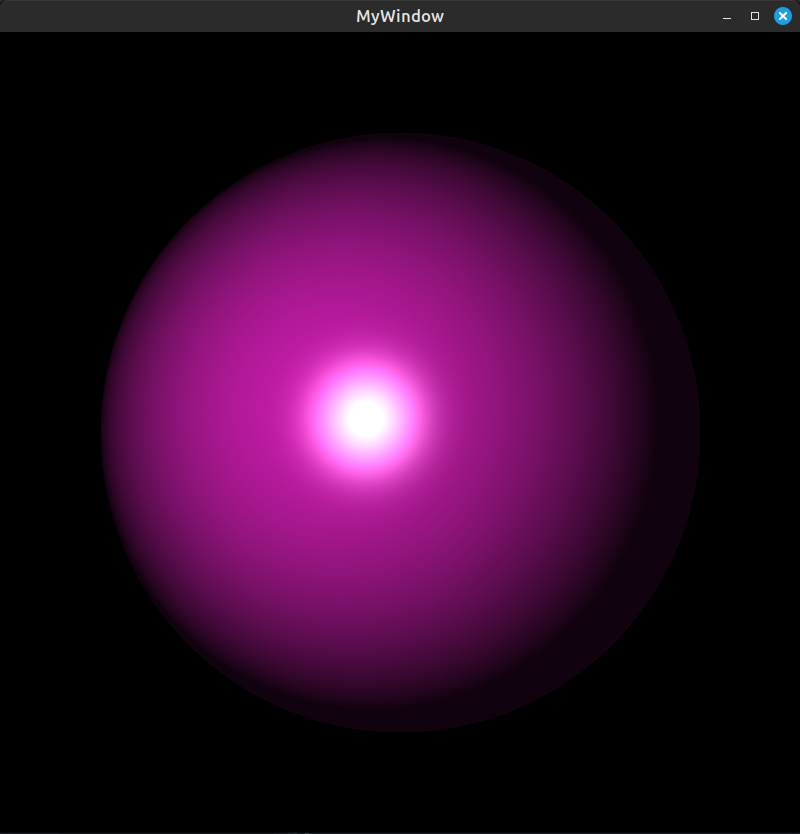
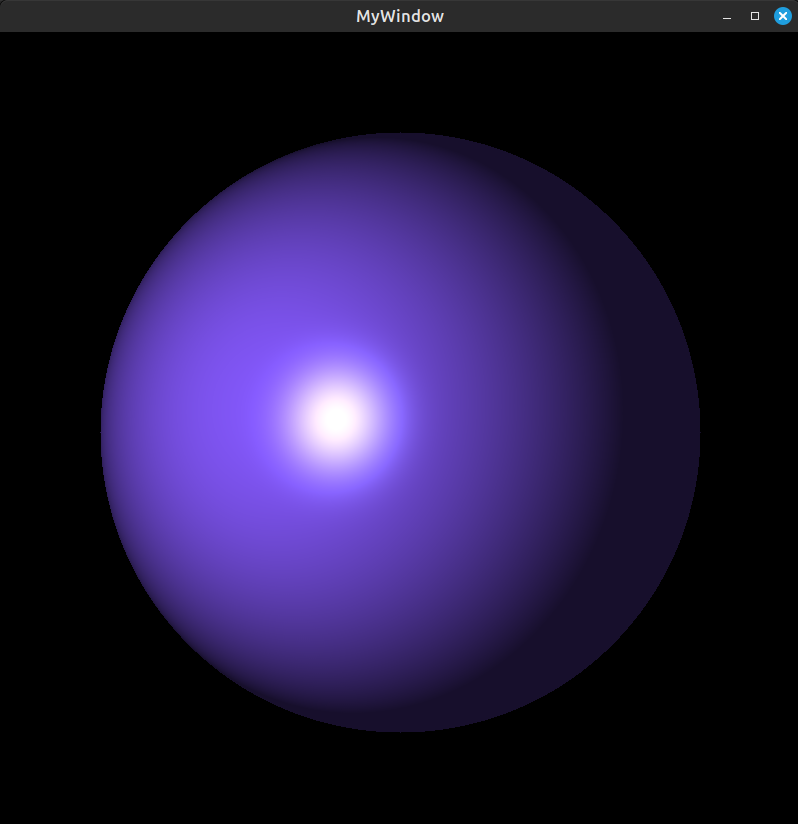
delete some garbage

diff --git a/main.cpp b/main.cpp
@@ -16,12 +16,12 @@ const int    Y_CENTER          = SIZE_Y_WINDOW / 2;
 const size_t SPHERE_RADIUS     = 300;
 const int    SPHERE_CENTER_X   = 0;
 const int    SPHERE_CENTER_Y   = 0;
-const int    LIGHT_X           = -250;
+const int    LIGHT_X           = -500;
 const int    LIGHT_Y           = 100;
 const int    LIGHT_Z           = 1000;
 const int    POINT_VIEW_HEIGHT = 800;
 const int    GLARE_MULTIPLIER  = 8;
-const double AMBIENT_COEFF     = 0.1;
+const double AMBIENT_COEFF     = 0.22;
 
 int main()
 {
@@ -45,8 +45,8 @@ int main()
     GraphicSystem graphic_system (coordinate_system, SIZE_X_WINDOW,
                                                      SIZE_Y_WINDOW);
 
-    Vector3 sphere_color (0.7, 0.1, 0.6);
-    Vector3 light_color  (1, 1, 1.0);
+    Vector3 sphere_color (0.7, 0.4, 0.8);
+    Vector3 light_color  (0.6, 0.7, 1.0);
 
     Sphere sphere (SPHERE_RADIUS, SPHERE_CENTER_X, SPHERE_CENTER_Y, sphere_color);
 

diff --git a/source/sphere.cpp b/source/sphere.cpp
@@ -94,8 +94,6 @@ void set_pixel (uint8_t* pixels, const Vector3& pixel_color,
     {
         pixels[4 * (x_pixel_number + y_pixel_number * x_window_size) + n_channel] = color_channels[n_channel];
     }
-    PRINTF ("pixels[%zu] = 0x%x\n", 4 * (x_pixel_number + y_pixel_number * x_window_size),
-                                  *(uint32_t*) (pixels + 4 * (x_pixel_number + y_pixel_number * x_window_size)));
 }
 
 void set_color (Vector3* sum_color, const Vector3& light_color, const Vector3& sphere_color,
@@ -141,7 +139,4 @@ void set_color (Vector3* sum_color, const Vector3& light_color, const Vector3& s
 
     *sum_color = (multiple_of_elements (sphere_color, light_color) * (sphere_and_light_cos + ambient_coeff)
                  + light_color * glare_coeff) * UCHAR_MAX;
-
-    PRINTF ("sum_color:\nR = %lf\nG = %lf\nB = %lf\n",
-            (*sum_color).get_x (), (*sum_color).get_y (), (*sum_color).get_z ());
 }
